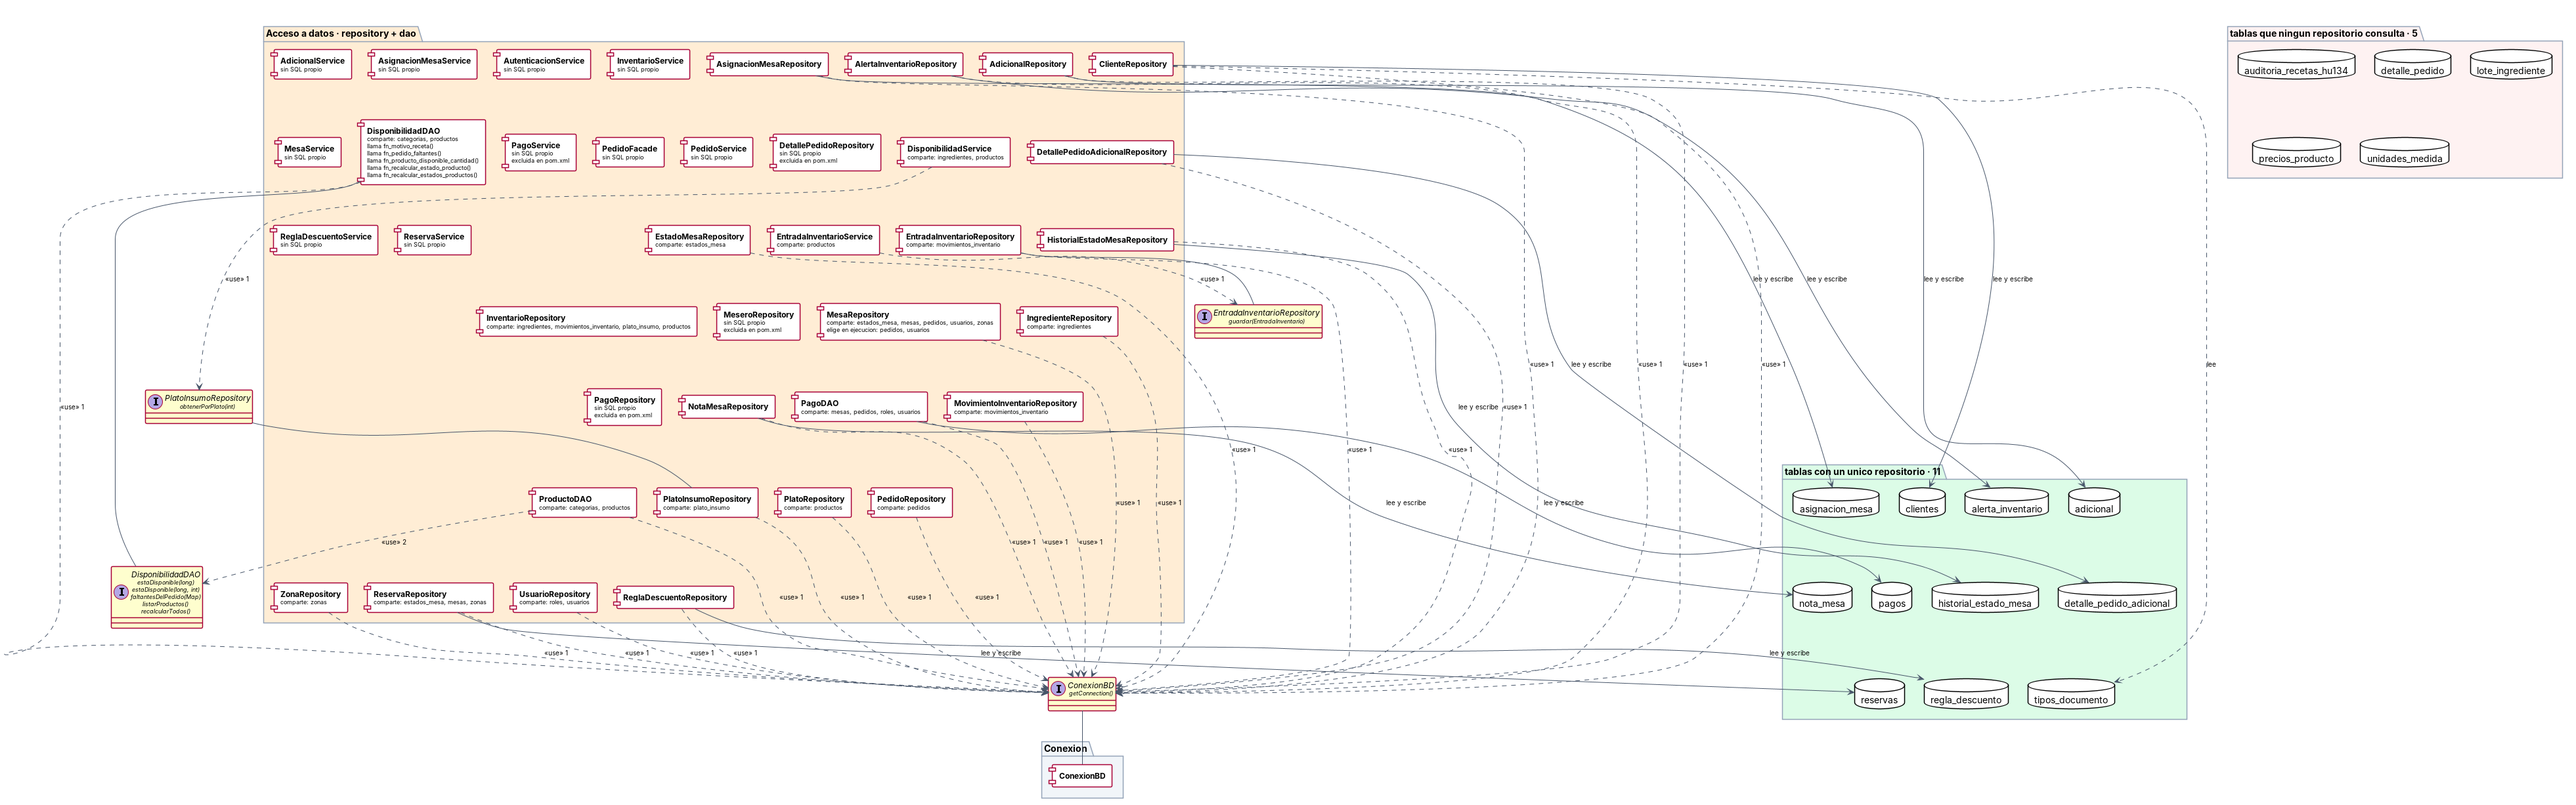
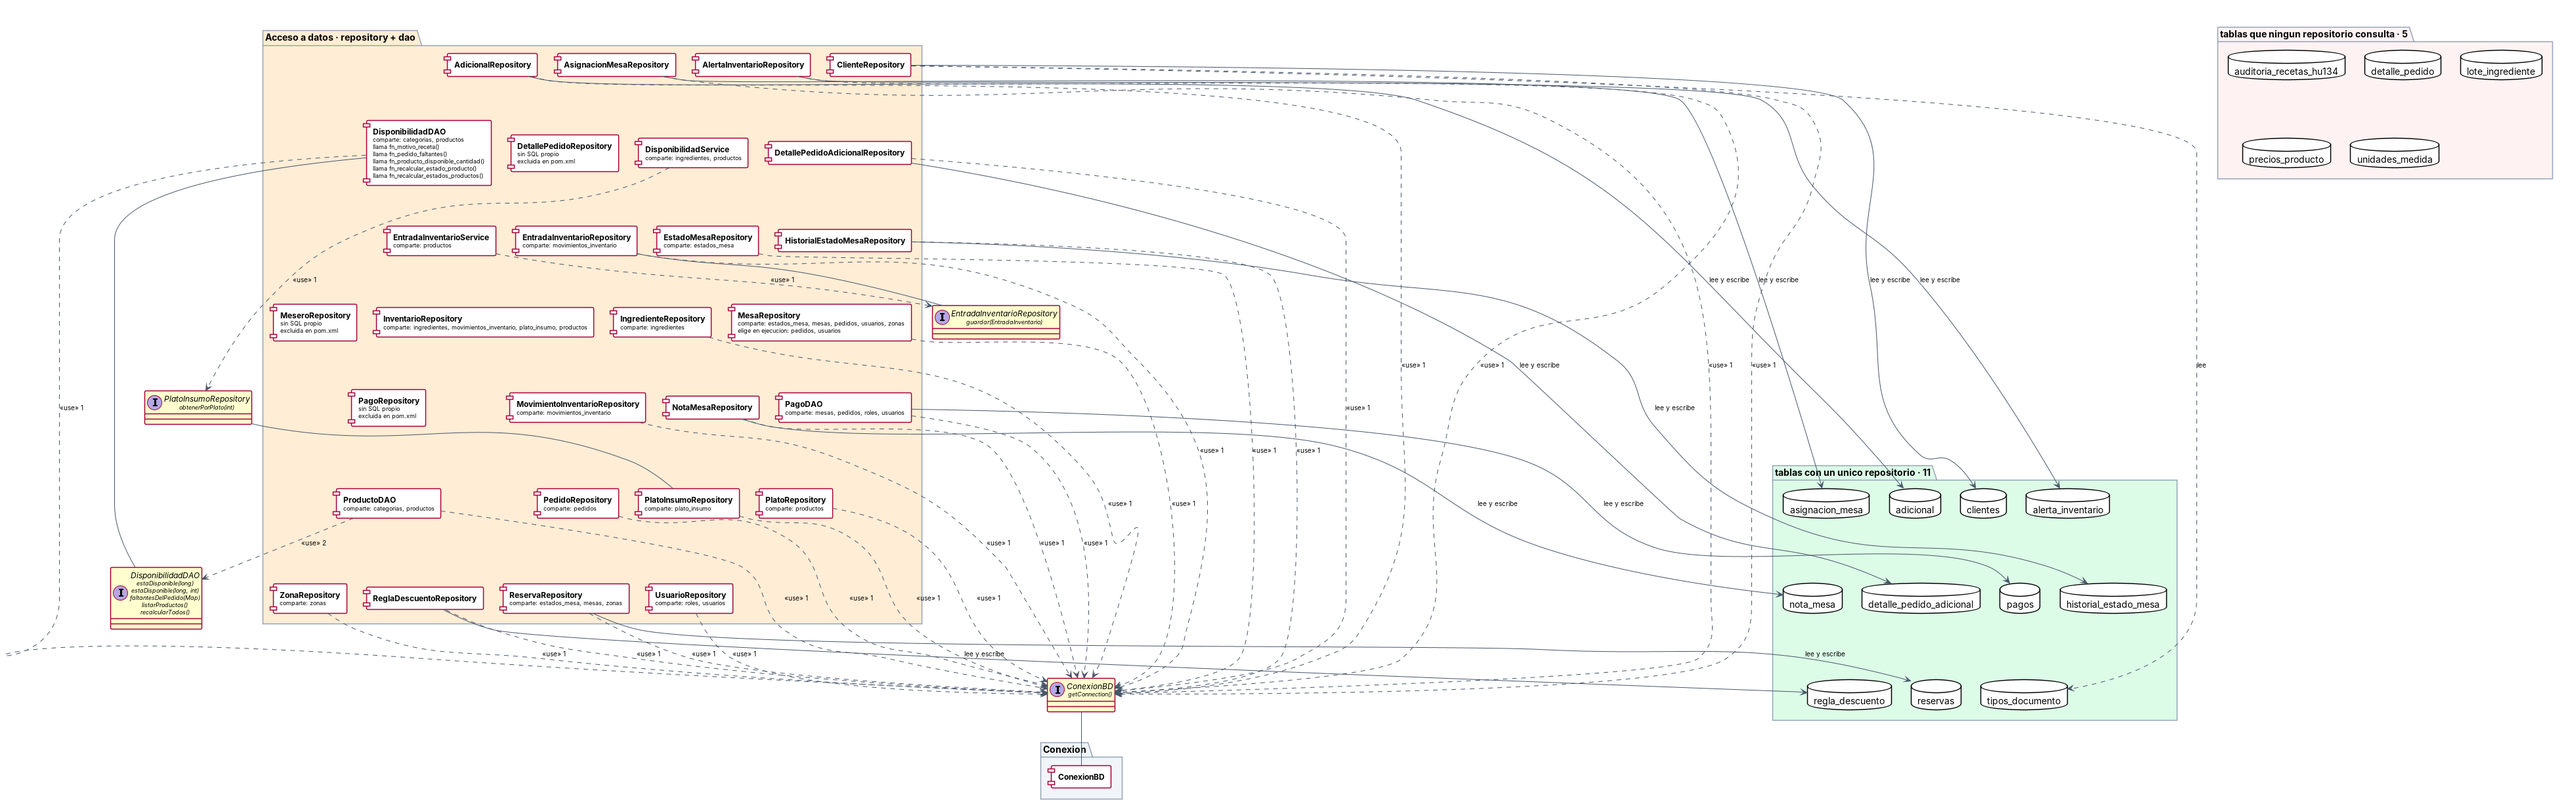
docs: el mapa componente-tabla solo dibuja los service que ejecutan SQL
Efecto secundario del commit anterior: al escanear tambien el paquete
service en busca de SQL, el diagrama de datos empezo a dibujar los doce
servicios, diez de ellos con la etiqueta "sin SQL propio". Solo deben
aparecer DisponibilidadService y EntradaInventarioService, que son los que
ejecutan SQL saltandose la capa de datos.

diff --git a/docs/diagramas-fuente/herramientas/gen_componentes_puml.py b/docs/diagramas-fuente/herramientas/gen_componentes_puml.py
@@ -300,7 +300,10 @@ PROPIAS = sorted(t for t, v in quien.items() if len(v) == 1)
 L = [CAB]
 L.append('package "Acceso a datos · repository + dao" #FFEDD5 {')
 for n in sorted(COMPONENTES):
-    if POR[n]['paquete'] not in ('repository', 'dao', 'service'):
+    # repository y dao siempre; de service, solo los dos que ejecutan SQL
+    # propio: los otros diez no pintan nada en un mapa componente-tabla
+    if POR[n]['paquete'] not in ('repository', 'dao') and \
+            not (POR[n]['paquete'] == 'service' and n in sql):
         continue
     d = sql.get(n, {})
     extra = []

diff --git a/docs/diagramaComponentes.md b/docs/diagramaComponentes.md
@@ -40,7 +40,7 @@ Documentan en qué piezas sustituibles está dividido el sistema y cómo depende
 
 **Por qué está.** Sin ORM esta correspondencia solo existe dentro de las cadenas de SQL. Hacerla explícita es lo que permite saber el impacto de cambiar una tabla antes de cambiarla.
 
-**Qué muestra.** Son 39 componentes y 16 tablas, con 36 conexiones, y cada flecha sale de una consulta real. Los tres DAO aparecen aquí junto a los repositorios porque hacen lo mismo: ejecutar SQL. Las tablas que solo toca un componente son las de bajo riesgo; las compartidas van en el diagrama siguiente.
+**Qué muestra.** Son 29 componentes y 16 tablas, con 36 conexiones, y cada flecha sale de una consulta real. Los tres DAO aparecen aquí junto a los repositorios porque hacen lo mismo: ejecutar SQL. Las tablas que solo toca un componente son las de bajo riesgo; las compartidas van en el diagrama siguiente.
 
 ---
 
